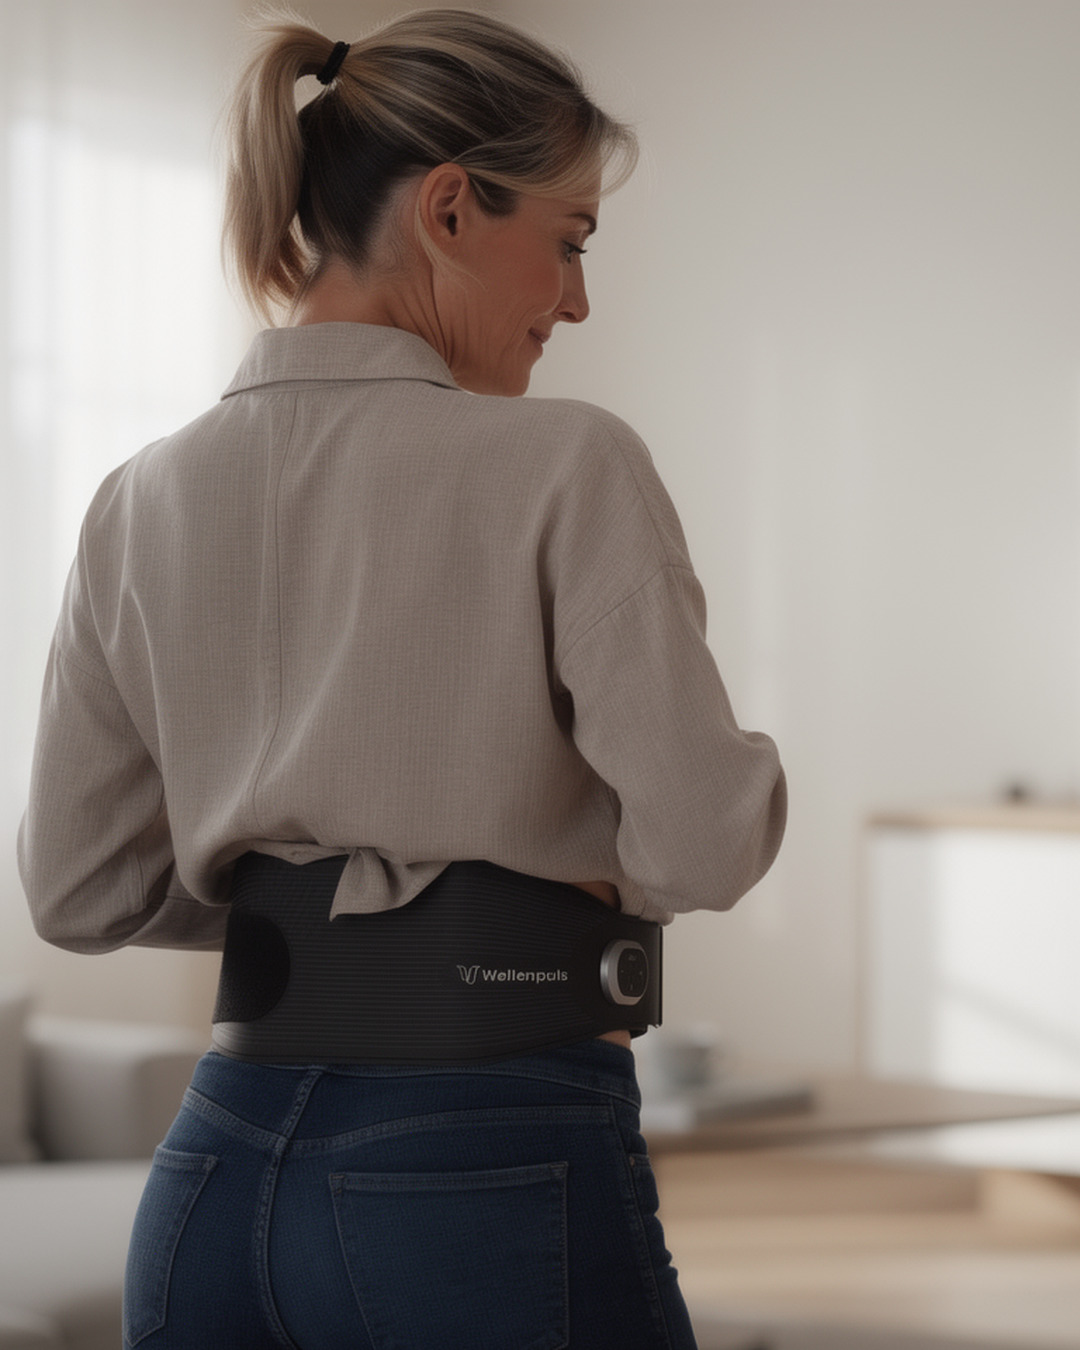
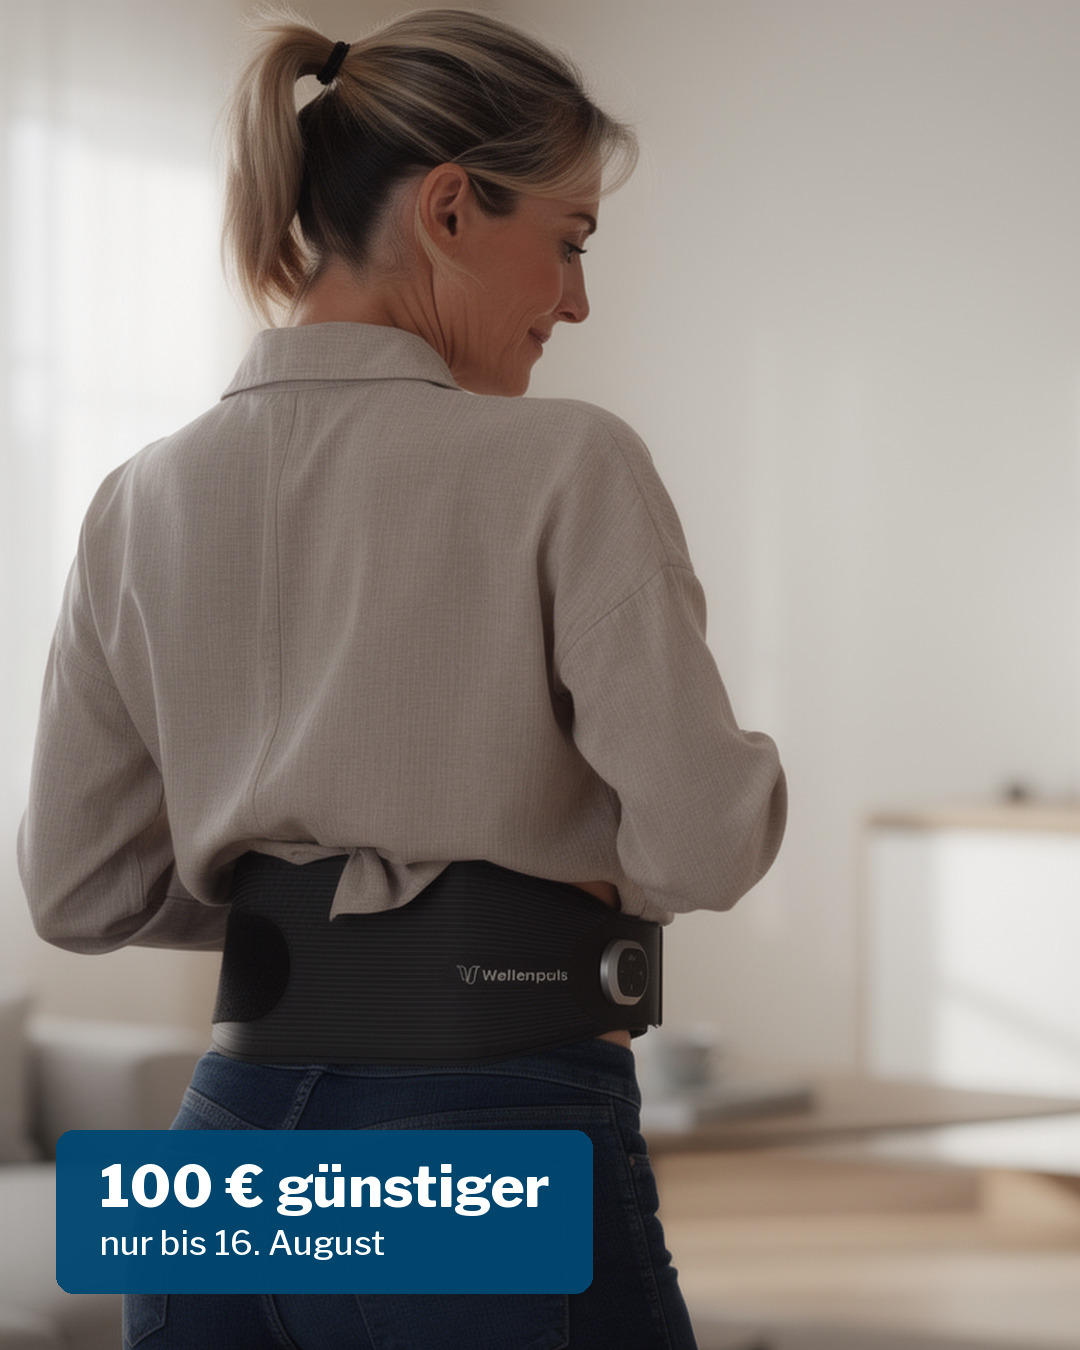
Rabattplakette auf das Anwendungsmotiv setzen
Im Instagram-Feed wird der Primary Text abgeschnitten, dort traegt das Bild die
Aussage allein -- akt-02 war als einziges Motiv ohne Preisangabe. Die Plakette
ist eine ruhige Flaeche in der Markenfarbe statt eines Stoerers: Teleshopping-
Optik steht bei Wellenpuls auf der Tabu-Liste.

Changed region(s): [[0.0306, 0.84, 0.55, 0.9644]]

diff --git a/scripts/bau-aktion-ads.py b/scripts/bau-aktion-ads.py
@@ -130,12 +130,37 @@ u = mitte(d, 940, "100 € günstiger", font(112, 800), NAVY)
 mitte(d, u + 46, "Nur für kurze Zeit", font(46, 400), GRAU)
 sichern(im, "akt-01-packshot-rabatt")
 
-# ── akt-02  Anwendung, echtes Foto, ohne Text ──────────────────────────────
+# ── akt-02  Anwendung, echtes Foto, mit Rabattplakette ─────────────────────
 # Der Guertel sitzt am unteren Ruecken unter der Bluse. Genau die Darstellung,
-# die im generierten Motiv falsch war. Bewusst ohne Schrift: vier Motive im
-# selben Look landen bei Meta im selben Delivery-Bucket.
+# die im generierten Motiv falsch war.
+#
+# Die Plakette ist noetig, weil der Primary Text im Instagram-Feed abgeschnitten
+# wird — dort traegt das Bild die Aussage allein. Bewusst eine ruhige Flaeche in
+# der Markenfarbe statt Stoerer, Sterne oder Signalrot: die Marke verbietet
+# Teleshopping-Optik, und die Zielgruppe kauft ueber Glaubwuerdigkeit.
 foto = zuschneiden("assets/Frau_50_WellenpulsLWS_Lifestyle_Rückansicht.png",
-                   B, H, fokus_x=0.30)
+                   B, H, fokus_x=0.30).convert("RGBA")
+
+f_gross, f_klein = font(58, 800), font(34, 500)
+z1, z2 = "100 € günstiger", "nur bis 16. August"
+d = ImageDraw.Draw(foto)
+b1 = d.textbbox((0, 0), z1, font=f_gross)
+b2 = d.textbbox((0, 0), z2, font=f_klein)
+pad_x, pad_y, luft = 44, 34, 14
+pb = max(b1[2] - b1[0], b2[2] - b2[0]) + 2 * pad_x
+ph = (b1[3] - b1[1]) + luft + (b2[3] - b2[1]) + 2 * pad_y
+px, py = 56, H - ph - 56
+
+plakette = Image.new("RGBA", (pb, ph), (0, 0, 0, 0))
+ImageDraw.Draw(plakette).rounded_rectangle([0, 0, pb - 1, ph - 1], radius=18,
+                                           fill=NAVY + (242,))
+schatten(foto, plakette, (px, py), unschaerfe=26, deckung=90, versatz=(0, 10))
+foto.alpha_composite(plakette, (px, py))
+
+d = ImageDraw.Draw(foto)
+d.text((px + pad_x - b1[0], py + pad_y - b1[1]), z1, font=f_gross, fill=(255, 255, 255))
+d.text((px + pad_x - b2[0], py + pad_y + (b1[3] - b1[1]) + luft - b2[1]), z2,
+       font=f_klein, fill=(255, 255, 255, 225))
 sichern(foto, "akt-02-anwendung-ruecken")
 
 # ── akt-03  Komplettpaket ──────────────────────────────────────────────────

diff --git a/aktion/ADS.md b/aktion/ADS.md
@@ -34,7 +34,7 @@ Motiv: `assets/ads/aktion/akt-01-packshot-rabatt.jpg` (4:5) — echter Packshot
 
 ## akt-02 · Anwendung am unteren Rücken
 
-Motiv: `assets/ads/aktion/akt-02-anwendung-ruecken.jpg` (4:5) — echtes Foto
+Motiv: `assets/ads/aktion/akt-02-anwendung-ruecken.jpg` (4:5) — echtes Foto, mit Rabattplakette
 
 **Primary Text**
 
@@ -99,12 +99,22 @@ oklch-Token wie die Landingpage.
 **Nicht verwenden: `assets/Anwendung-wellenpuls.jpg`.** Das Bild zeigt ein
 anderes Gerät — Elektrodenpads außen, abweichende Bedieneinheit.
 
+## Warum jedes Motiv den Rabatt trägt
+
+Im Instagram-Feed wird der Primary Text abgeschnitten — dort trägt das Bild die
+Aussage allein. Deshalb steht der Preisvorteil auf allen vier Motiven, bei
+`akt-02` als ruhige Plakette in der Markenfarbe statt als Störer.
+
+Nicht verwendet: „Sommerschlussverkauf", „Nur noch heute", Countdown, Sterne,
+Signalrot. Teleshopping-Optik steht bei Wellenpuls auf der Tabu-Liste, und diese
+Zielgruppe kauft über Glaubwürdigkeit, nicht über Druck.
+
 ## Warum vier verschiedene Bildsprachen
 
 Meta clustert visuell ähnliche Creatives in dieselben Delivery-Buckets. Vier
 Motive im gleichen Stil konkurrieren dann gegeneinander statt die Auslieferung zu
-verbreitern. Deshalb bewusst: Packshot mit Typo, Reportage mit Mensch, Flatlay
-von oben, reine Preistypografie.
+verbreitern. Deshalb bewusst: Packshot, Reportage mit Mensch, Komplettpaket,
+reine Preistypografie.
 
 ## Warum kein Countdown
 
